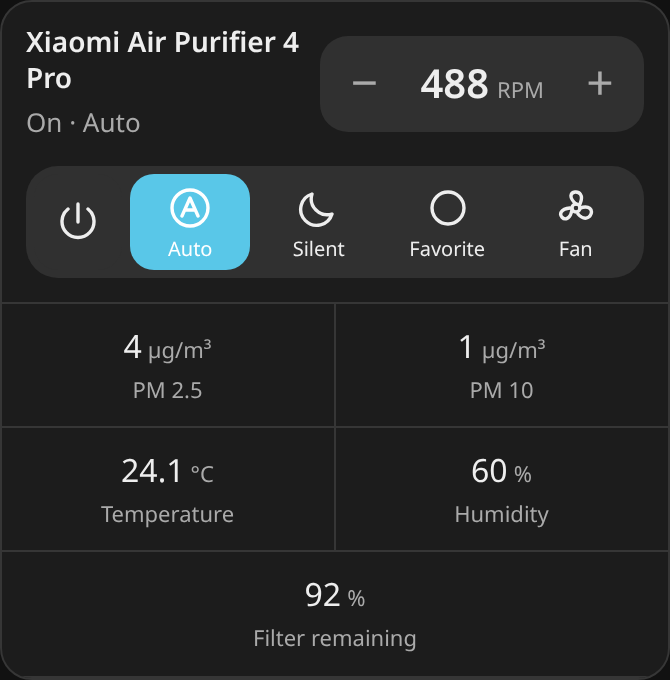
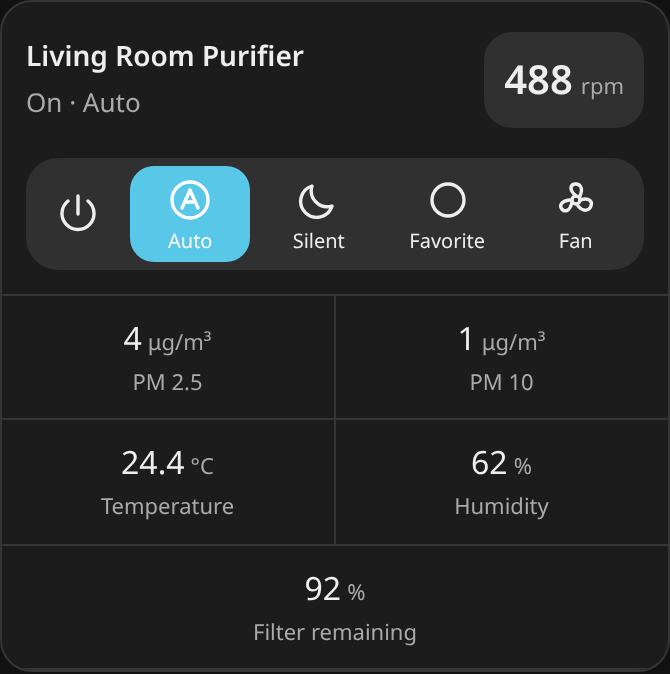
fix: show fan speed as a read-only measurement

diff --git a/src/purifier-card.ts b/src/purifier-card.ts
@@ -6,7 +6,6 @@ import {
   type CSSResultGroup,
 } from 'lit';
 import { customElement, property, state } from 'lit/decorators.js';
-import { live } from 'lit/directives/live.js';
 import { fireEvent, type HomeAssistant } from 'custom-card-helpers';
 import registerTemplates from 'ha-template';
 import styles from './styles.css';
@@ -19,7 +18,6 @@ import {
   referencedEntities,
   shortcutActions,
   shortcutActive,
-  percentageStops,
 } from './model';
 import type {
   PurifierAction,
@@ -38,8 +36,6 @@ export class PurifierCard extends LitElement {
   @state() private config!: PurifierCardConfig;
   @state() private pending = false;
   @state() private error = '';
-  @state() private draftPercentage: number | undefined;
-  @state() private speedExpanded = false;
   @state() private narrow = false;
   @state() private tiny = false;
   private sizeObserver?: ResizeObserver;
@@ -98,19 +94,6 @@ export class PurifierCard extends LitElement {
         (id) => previous.states[id] !== this.hass.states[id],
       )
     );
-  }
-
-  protected willUpdate(changed: PropertyValues) {
-    const previous = changed.get('hass') as HomeAssistant | undefined;
-    const previousFan = previous?.states[this.config.entity];
-    if (
-      previousFan &&
-      (previousFan.attributes.preset_mode !==
-        this.entity?.attributes.preset_mode ||
-        this.entity?.state !== 'on')
-    ) {
-      this.draftPercentage = undefined;
-    }
   }
 
   private moreInfo(entityId = this.config.entity) {
@@ -191,103 +174,8 @@ export class PurifierCard extends LitElement {
     </div>`;
   }
 
-  private renderControls() {
-    if (!this.speedExpanded) return nothing;
-    const entity = this.entity;
-    const hasPercentage = !!(Number(entity?.attributes.supported_features) & 1);
-    const percentage = entity?.attributes.percentage;
-    const displayedPercentage = this.draftPercentage ?? percentage;
-    const stops = percentageStops(entity?.attributes.percentage_step);
-    return html`<div class="controls" id="speed-adjustment">
-      ${
-        hasPercentage
-          ? html`<label class="speed-control"
-              ><span>${displayedPercentage ?? '—'}%</span
-              ><input
-                type="range"
-                aria-label="Fan speed"
-                aria-valuetext=${`${displayedPercentage ?? 0}%`}
-                min="0"
-                max=${stops}
-                step="1"
-                .value=${live(String(Math.round(((displayedPercentage ?? 0) * stops) / 100)))}
-                ?disabled=${!this.available || entity?.state !== 'on' || this.pending}
-                @input=${(event: Event) => {
-                  this.draftPercentage = Math.round(
-                    (Number((event.target as HTMLInputElement).value) * 100) /
-                      stops,
-                  );
-                }}
-                @pointercancel=${() => {
-                  this.draftPercentage = undefined;
-                }}
-                @blur=${() => {
-                  this.draftPercentage = undefined;
-                }}
-                @change=${(event: Event) => {
-                  const percentage = Math.round(
-                    (Number((event.target as HTMLInputElement).value) * 100) /
-                      stops,
-                  );
-                  this.draftPercentage = undefined;
-                  void this.execute([
-                    {
-                      service: 'fan.set_percentage',
-                      service_data: {
-                        percentage,
-                      },
-                    },
-                  ]);
-                }}
-            /></label>`
-          : nothing
-      }
-    </div>`;
-  }
-
-  private adjustSpeed(direction: number) {
-    const steps = percentageStops(this.entity?.attributes.percentage_step);
-    const current = Math.round(
-      ((this.entity?.attributes.percentage ?? 0) * steps) / 100,
-    );
-    const next = Math.max(0, Math.min(steps, current + direction));
-    void this.execute([
-      {
-        service: 'fan.set_percentage',
-        service_data: { percentage: Math.round((next * 100) / steps) },
-      },
-    ]);
-  }
-
   private renderSpeed() {
-    const entity = this.entity;
-    const hasPercentage = !!(Number(entity?.attributes.supported_features) & 1);
-    const disabled =
-      !this.available ||
-      entity?.state !== 'on' ||
-      this.pending ||
-      typeof entity?.attributes.percentage !== 'number';
-    return html`<div class="speed-pill">
-      ${hasPercentage ? html`<button type="button" class="step-button" aria-label="Decrease fan speed" ?disabled=${disabled || entity!.attributes.percentage! <= 0} @click=${() => this.adjustSpeed(-1)}>−</button>` : nothing}
-      ${
-        hasPercentage
-          ? html`<button
-              type="button"
-              class="reading-button"
-              aria-label="Adjust fan speed"
-              aria-expanded=${String(this.speedExpanded)}
-              aria-controls="speed-adjustment"
-              ?disabled=${!this.available || this.pending}
-              @click=${() => {
-                this.speedExpanded = !this.speedExpanded;
-              }}
-            >
-              ${this.renderAQI()}
-            </button>`
-          : this.renderAQI()
-      }
-      ${hasPercentage ? html`<button type="button" class="step-button" aria-label="Increase fan speed" ?disabled=${disabled || entity!.attributes.percentage! >= 100} @click=${() => this.adjustSpeed(1)}>+</button>` : nothing}
-    </div>`;
+    return html`<div class="speed-pill">${this.renderAQI()}</div>`;
   }
 
   private toolbarShortcuts(): PurifierCardShortcut[] {
@@ -447,7 +335,6 @@ export class PurifierCard extends LitElement {
             </div>`
           : nothing
       }
-      ${this.renderControls()}
       ${this.error ? html`<div class="error" role="alert">${this.error}</div>` : nothing}
       ${this.renderStats()}
     </ha-card>`;

diff --git a/src/styles.css b/src/styles.css
@@ -114,24 +114,6 @@ ha-icon {
   background: var(--pc-toolbar-background);
   padding: 2px 4px;
 }
-.step-button {
-  display: grid;
-  place-items: center;
-  width: 40px;
-  min-height: 44px;
-  padding: 0;
-  font-size: 24px;
-  line-height: 1;
-  background: transparent;
-  border-radius: 10px;
-  color: var(--pc-secondary-text-color);
-}
-.reading-button {
-  min-height: 44px;
-  padding: 4px;
-  background: transparent;
-  border-radius: 8px;
-}
 .current-aqi {
   display: flex;
   align-items: baseline;
@@ -201,22 +183,6 @@ ha-icon {
 .control-button:hover:enabled:not(.active) {
   background: var(--pc-background);
 }
-.controls {
-  padding: 0 16px 12px;
-}
-.speed-control {
-  display: flex;
-  align-items: center;
-  gap: 10px;
-  font-size: 13px;
-  color: var(--pc-secondary-text-color);
-  min-height: 36px;
-}
-.speed-control input {
-  flex: 1;
-  min-width: 0;
-  accent-color: var(--pc-slider-bar-color);
-}
 .stats {
   display: grid;
   grid-template-columns: repeat(var(--stat-columns, 4), minmax(0, 1fr));
@@ -276,9 +242,6 @@ ha-icon {
 }
 .tiny .friendly-name {
   font-size: 14px;
-}
-.tiny .step-button {
-  width: 36px;
 }
 .narrow .stats-block {
   border-bottom: 1px solid var(--pc-divider-color);

diff --git a/src/model.ts b/src/model.ts
@@ -7,13 +7,6 @@ import type {
   PurifierCardShortcut,
 } from './types';
 
-/** Use integer range positions to avoid a fractional last stop exceeding 100. */
-export function percentageStops(step: number | undefined): number {
-  return typeof step === 'number' && Number.isFinite(step) && step > 0
-    ? Math.max(1, Math.round(100 / step))
-    : 100;
-}
-
 export function readValue(
   states: HassEntities,
   source: PurifierAQI,

diff --git a/README.md b/README.md
@@ -6,7 +6,7 @@ A Home Assistant dashboard card for Xiaomi air purifiers, built with TypeScript 
 
 ## Features
 
-- Compact header with purifier name, state, measured fan speed, and step controls.
+- Compact header with purifier name, state, and a live read-only fan-speed reading.
 - Automatic PM2.5, PM10, temperature, humidity, and filter-remaining discovery from the selected purifier’s HA device.
 - A simple power/preset strip and responsive statistics; no purifier image or decorative dial.
 - Separate sensor and number entities update without reloading the dashboard.
@@ -61,11 +61,13 @@ The separate tag means this card can coexist with the original. Start by duplica
 - Combined shortcut actions now execute **preset → custom service → percentage**, awaiting each command and stopping on failure. The complete sequence is validated before sending commands. HA service completion does not guarantee that device telemetry has caught up; active highlighting follows reported state.
 - Custom services receive their own `service_data` and `target`; a fan target is only inferred for fan-domain services.
 - Custom service shortcuts are no longer permanently highlighted. Recognized preset/percentage/number combinations must all match; arbitrary actions can specify `state_entity` and `state`.
-- The card uses a compact layout for both existing and new configurations. Plus/minus controls adjust one supported speed step. Tap the header reading to open the percentage slider.
+- The card uses a compact layout for both existing and new configurations. The header reading is read-only: percentage commands can change modes or discrete levels on Xiaomi models, so it has no plus/minus buttons or slider.
 - Supported preset buttons are provided automatically. Custom shortcuts are retained, with missing preset modes added to keep every exposed mode accessible.
 - `compact_view` now selects denser spacing; the large image and dial have been removed.
 
 Use [the 4 Pro example](examples/4-pro.yaml) or [the 3C example](examples/3c.yaml) for the supplied entity names. The 4 Pro `fan_level` example selects **Fan**, following the `xiaomi_miio` integration's mode semantics; verify your integration's `preset_modes`. The 3C RPM example selects **Favorite**. Percentage shortcut names in these examples are labels for user-selected settings, not measured airflow percentages.
+
+Measured RPM is feedback, not a speed target. For manual tuning, use a separate `number` entity exposed by your integration: the 3C example uses its Favorite RPM target, while other models expose Favorite levels or Fan levels. Use the entity's actual range and step; a Fan level is not an RPM value. See the [HA Xiaomi integration](https://www.home-assistant.io/integrations/xiaomi_miio/#xiaomi-air-purifier).
 
 `filter_life_remaining` is remaining filter life, so it should be labelled **Filter remaining**. `aqi` is the inherited configuration key; displaying PM2.5 concentration does not calculate an air quality index.
 
@@ -146,19 +148,19 @@ The card disables controls while the fan is unavailable or a command is pending.
 
 The card follows HA theme colors. Existing variables are retained:
 
-| Variable                    | Purpose                              |
-| --------------------------- | ------------------------------------ |
-| `--pc-background`           | Card background                      |
-| `--pc-primary-text-color`   | Name and readings                    |
-| `--pc-secondary-text-color` | State, labels, units                 |
-| `--pc-icon-color`           | Header icons                         |
-| `--pc-slider-path-color`    | Legacy track color                   |
-| `--pc-slider-bar-color`     | Active preset and speed-slider color |
-| `--pc-toolbar-background`   | Toolbar background                   |
-| `--pc-toolbar-text-color`   | Toolbar text                         |
-| `--pc-toolbar-icon-color`   | Toolbar icons                        |
-| `--pc-divider-color`        | Separators                           |
-| `--pc-spacing`              | Base spacing, default `10px`         |
+| Variable                    | Purpose                      |
+| --------------------------- | ---------------------------- |
+| `--pc-background`           | Card background              |
+| `--pc-primary-text-color`   | Name and readings            |
+| `--pc-secondary-text-color` | State, labels, units         |
+| `--pc-icon-color`           | Header icons                 |
+| `--pc-slider-path-color`    | Legacy track color           |
+| `--pc-slider-bar-color`     | Active preset color          |
+| `--pc-toolbar-background`   | Toolbar background           |
+| `--pc-toolbar-text-color`   | Toolbar text                 |
+| `--pc-toolbar-icon-color`   | Toolbar icons                |
+| `--pc-divider-color`        | Separators                   |
+| `--pc-spacing`              | Base spacing, default `10px` |
 
 Override them through a theme or optional card-mod styling:
 

diff --git a/docs/RELEASE_NOTES.md b/docs/RELEASE_NOTES.md
@@ -1,13 +1,9 @@
-Compact card layout and automatic filter-remaining detection.
+Read-only fan-speed display.
 
-- Replaces the large purifier artwork and dial with a compact header: device name/status on the left and fan speed on the right.
-- Adds plus/minus buttons for supported speed steps. Tap the reading to expand the percentage slider.
-- Uses a rounded power/preset strip; missing supported presets are supplied automatically alongside configured shortcuts.
-- Keeps all five statistics in a row on wider cards; narrow cards use two columns with the final odd statistic spanning the last row.
-- Detects filter life remaining from the same device, preferring percent over remaining time. Existing labels and selected sources are preserved without duplicate filter statistics.
-- Retains manual overrides, templates, the typing fix, and the 4 Pro fractional-step fix.
-- Removes the artwork from the JavaScript bundle, reducing the uncompressed build from about 2.35MB to about 97KB.
+- Removes the header plus/minus buttons and expandable percentage slider. Xiaomi percentage commands can select modes or discrete levels and do not necessarily set the measured RPM shown beside them.
+- Keeps the live RPM reading (or percentage fallback), power/preset controls, and explicitly configured speed shortcuts.
+- Manual speed targets remain available through shortcuts that use the integration's separate Favorite RPM/level or Fan level number entities.
 
-Validation: 29 model tests and 35 Chromium browser tests, including preset controls, speed steps, filter detection, and desktop/phone layouts.
+Validation: full lint, typecheck, 28 model tests, build, and 32 Chromium browser tests, including read-only RPM updates and percentage fallback without commands.
 
-Update through HACS and reload the frontend. The compact layout is applied automatically to existing cards. In the card editor, click **Detect missing sensors** to add filter remaining if it is not already configured. Every detected statistic remains editable.
+Update through HACS and reload the frontend. No configuration changes are required.
